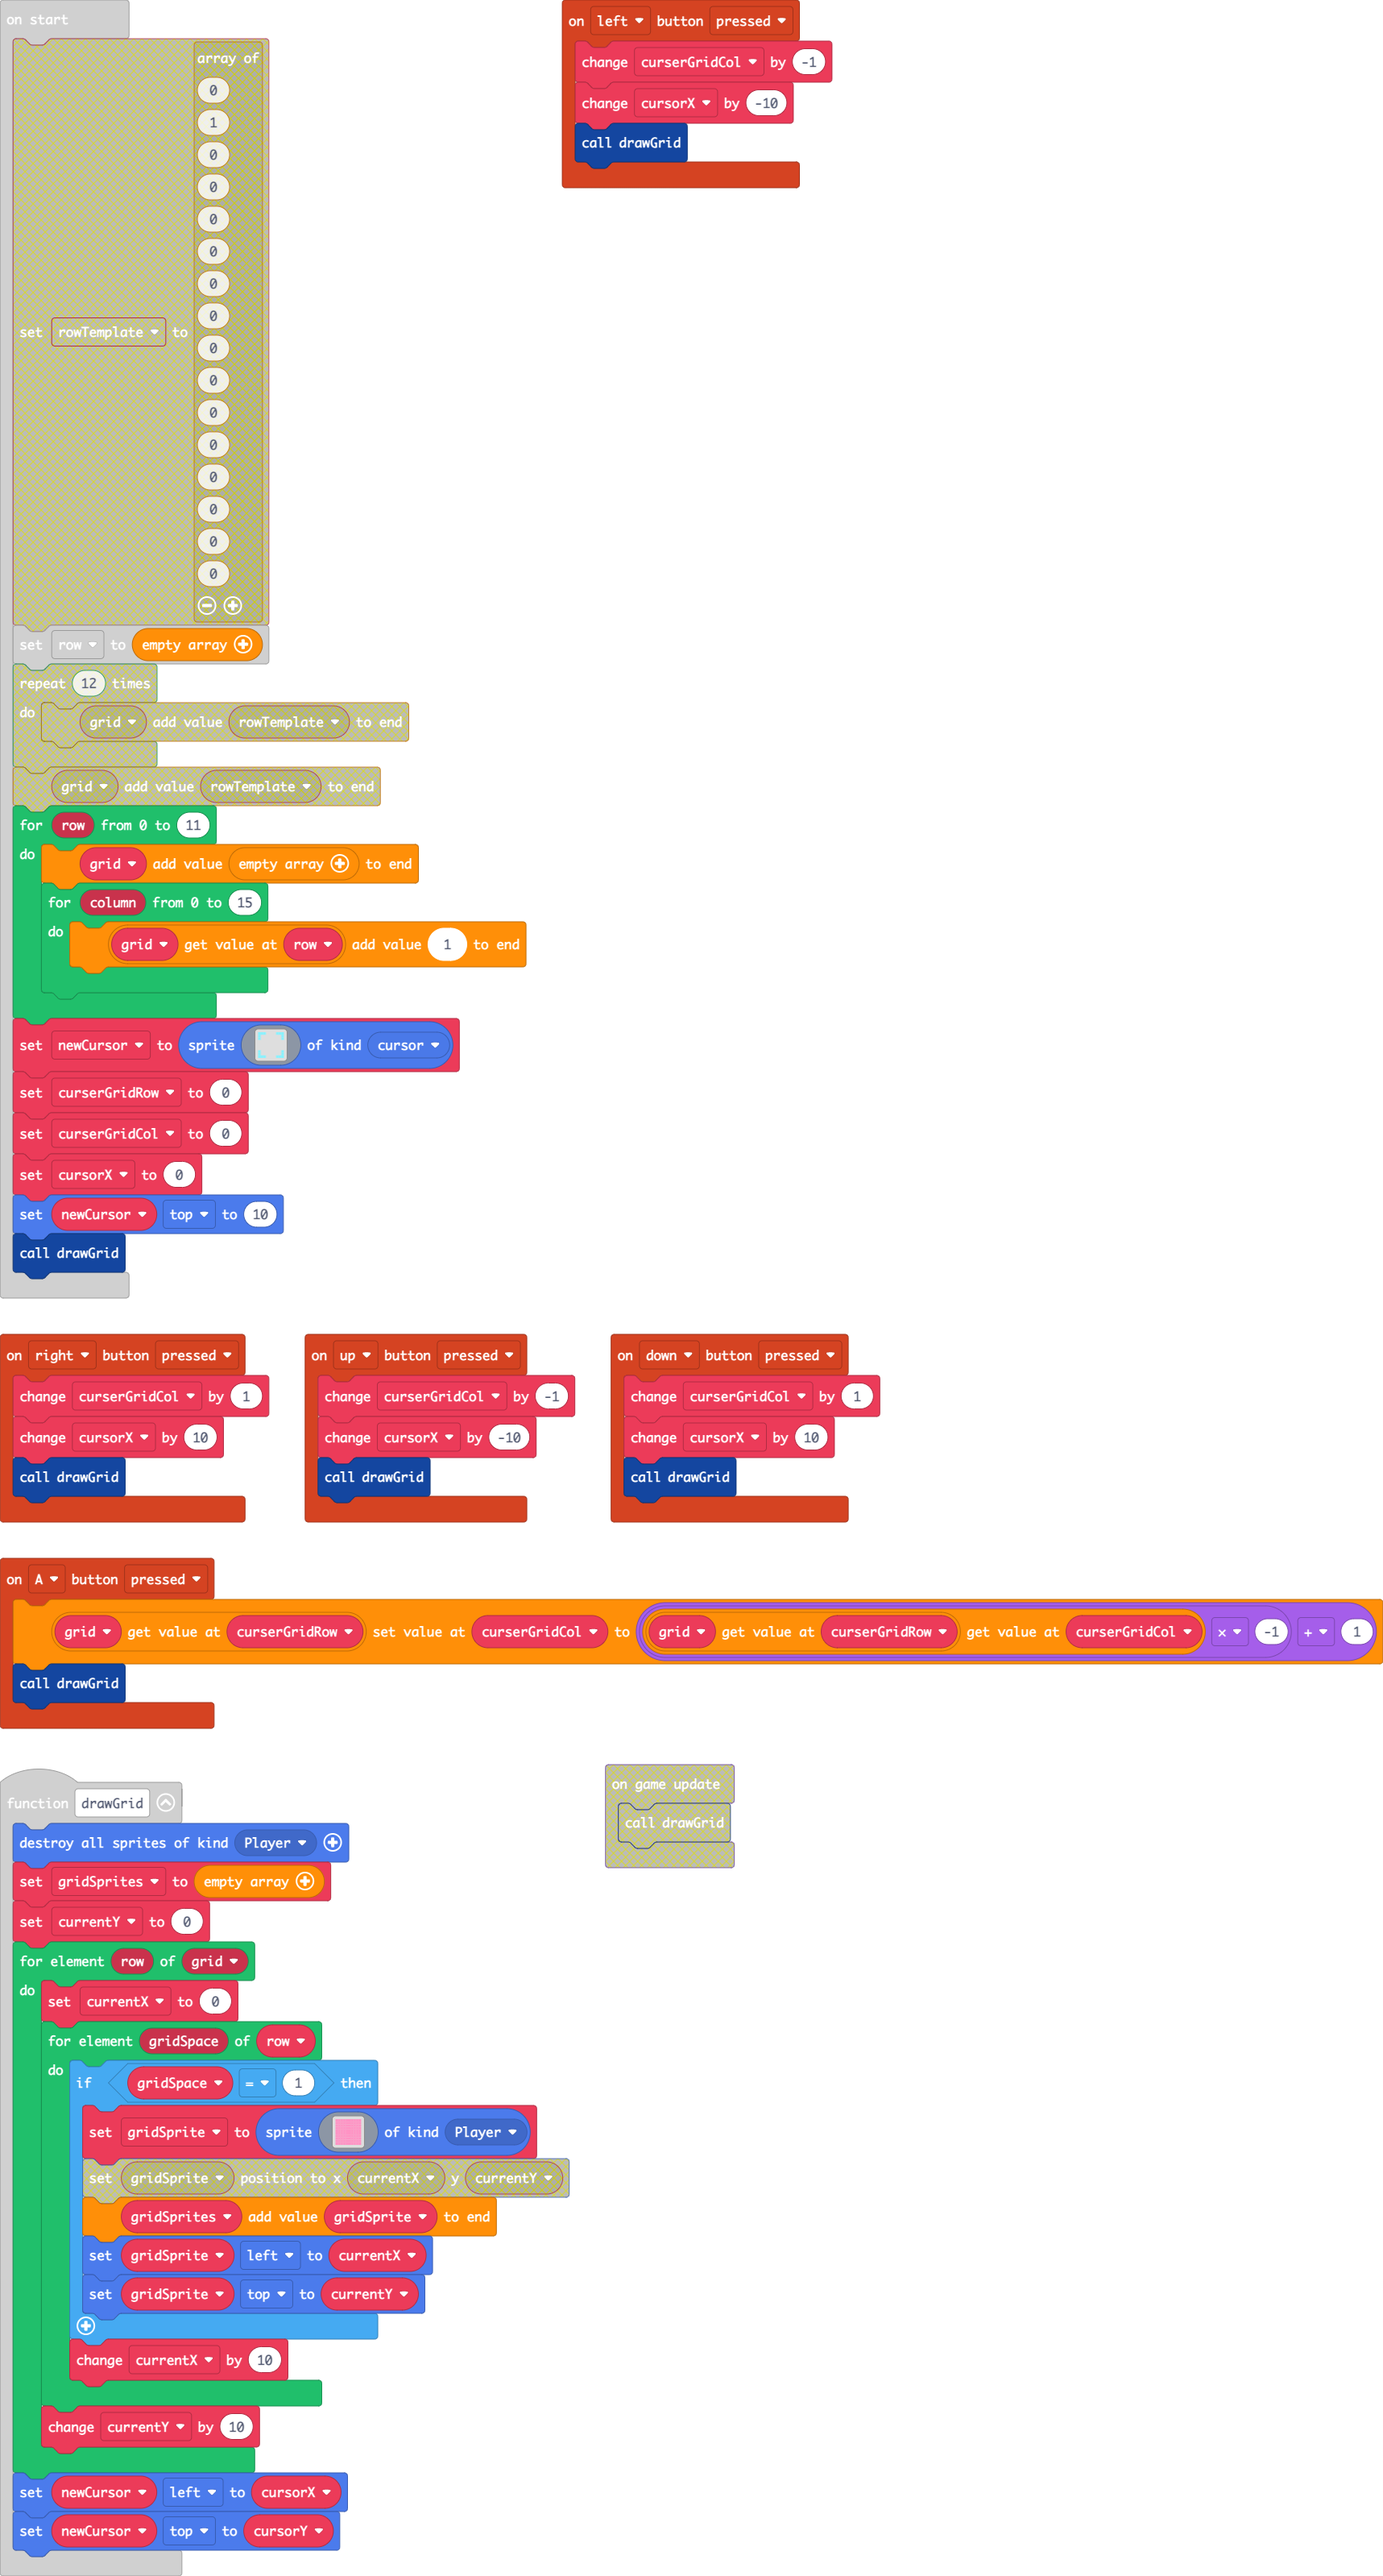
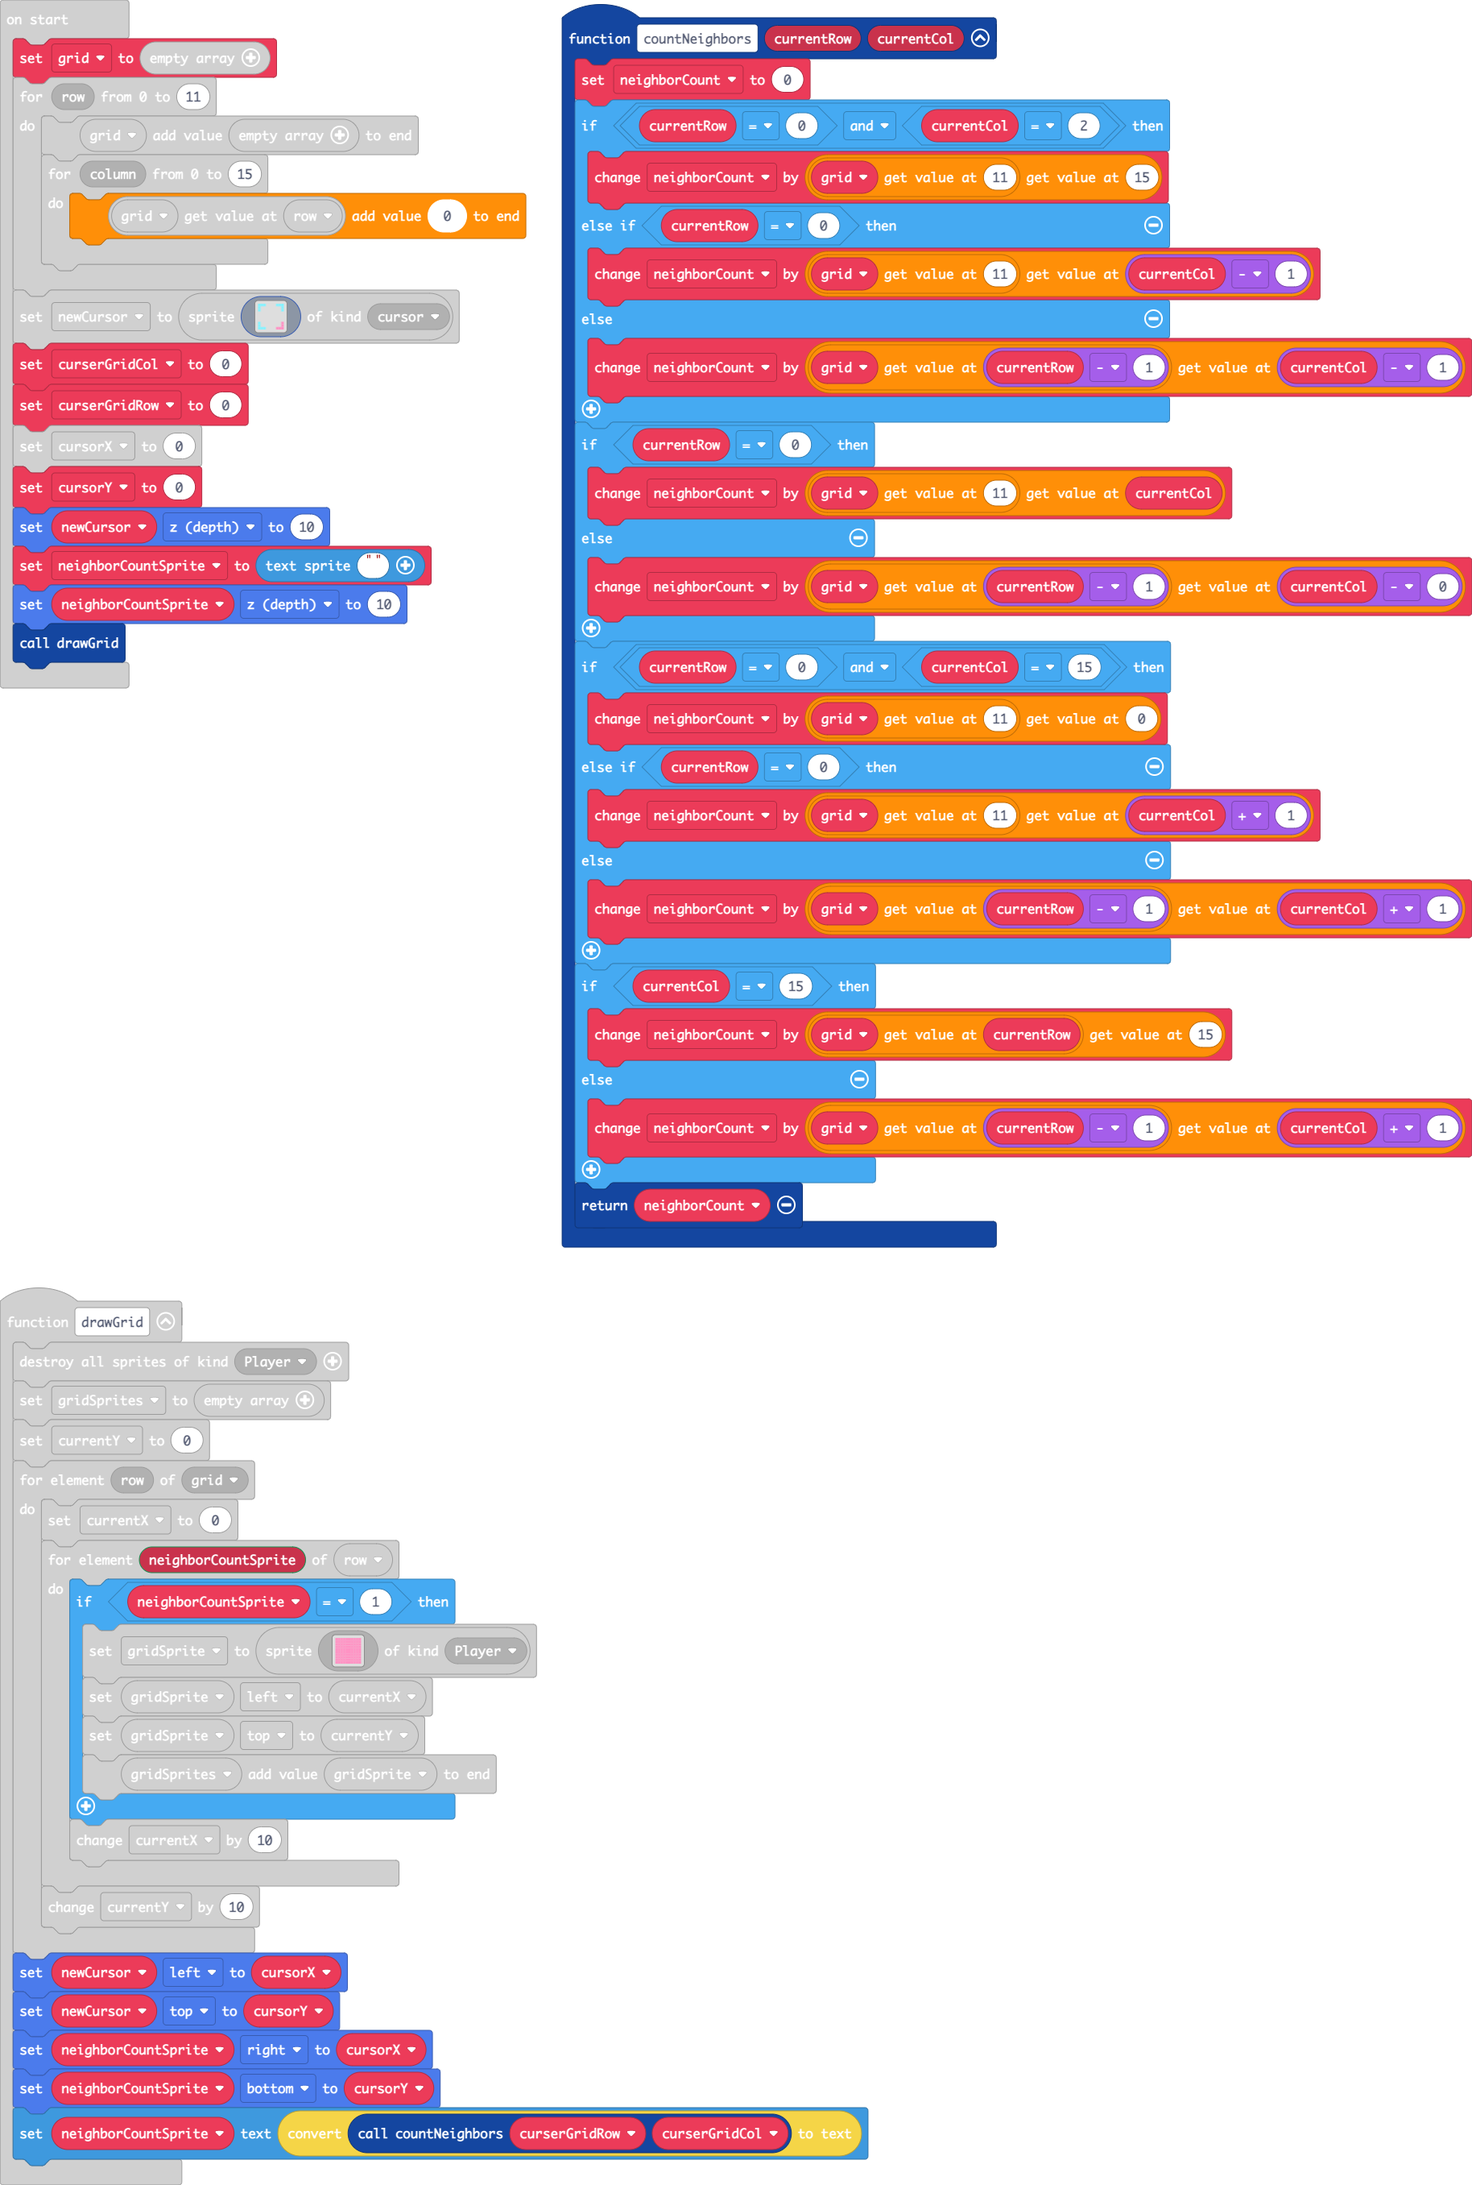
working on code

diff --git a/main.ts b/main.ts
@@ -21,14 +21,13 @@ controller.right.onEvent(ControllerButtonEvent.Pressed, function () {
     drawGrid()
 })
 function drawGrid () {
-    let cursorY = 0
     sprites.destroyAllSpritesOfKind(SpriteKind.Player)
     gridSprites = []
     currentY = 0
     for (let row of grid) {
         currentX = 0
-        for (let gridSpace of row) {
-            if (gridSpace == 1) {
+        for (let neighborCountSprite of row) {
+            if (neighborCountSprite == 1) {
                 gridSprite = sprites.create(img`
                     3 3 3 3 3 3 3 3 3 3 
                     3 3 3 3 3 3 3 3 3 3 
@@ -51,26 +50,60 @@ function drawGrid () {
     }
     newCursor.left = cursorX
     newCursor.top = cursorY
+    neighborCountSprite.right = cursorX
+    neighborCountSprite.bottom = cursorY
+    neighborCountSprite.setText(convertToText(countNeighbors(curserGridRow, curserGridCol)))
+}
+function countNeighbors (currentRow: number, currentCol: number) {
+    neighborCount = 0
+    if (currentRow == 0 && currentCol == 2) {
+        neighborCount += grid[11][15]
+    } else if (currentRow == 0) {
+        neighborCount += grid[11][currentCol - 1]
+    } else {
+        neighborCount += grid[currentRow - 1][currentCol - 1]
+    }
+    if (currentRow == 0) {
+        neighborCount += grid[11][currentCol]
+    } else {
+        neighborCount += grid[currentRow - 1][currentCol - 0]
+    }
+    if (currentRow == 0 && currentCol == 15) {
+        neighborCount += grid[11][0]
+    } else if (currentRow == 0) {
+        neighborCount += grid[11][currentCol + 1]
+    } else {
+        neighborCount += grid[currentRow - 1][currentCol + 1]
+    }
+    if (currentCol == 15) {
+        neighborCount += grid[currentRow][15]
+    } else {
+        neighborCount += grid[currentRow - 1][currentCol + 1]
+    }
+    return neighborCount
 }
 controller.down.onEvent(ControllerButtonEvent.Pressed, function () {
     curserGridCol += 1
     cursorX += 10
     drawGrid()
 })
+let neighborCount = 0
 let gridSprite: Sprite = null
 let currentX = 0
 let currentY = 0
 let gridSprites: Sprite[] = []
+let neighborCountSprite: TextSprite = null
+let cursorY = 0
 let cursorX = 0
-let curserGridCol = 0
 let curserGridRow = 0
+let curserGridCol = 0
 let newCursor: Sprite = null
 let grid: number[][] = []
-let row: number[] = []
+grid = []
 for (let row = 0; row <= 11; row++) {
     grid.push([])
     for (let column = 0; column <= 15; column++) {
-        grid[row].push(1)
+        grid[row].push(0)
     }
 }
 newCursor = sprites.create(img`
@@ -81,12 +114,15 @@ newCursor = sprites.create(img`
     . . . . . . . . . . 
     . . . . . . . . . . 
     . . . . . . . . . . 
-    9 . . . . . . . . 9 
-    9 . . . . . . . . 9 
-    9 9 9 . . . . 9 9 9 
+    9 . . . . . . . . 3 
+    9 . . . . . . . . 3 
+    9 9 9 . . . . 3 3 3 
     `, SpriteKind.cursor)
-curserGridRow = 0
 curserGridCol = 0
+curserGridRow = 0
 cursorX = 0
-newCursor.top = 10
+cursorY = 0
+newCursor.z = 10
+neighborCountSprite = textsprite.create("")
+neighborCountSprite.z = 10
 drawGrid()
